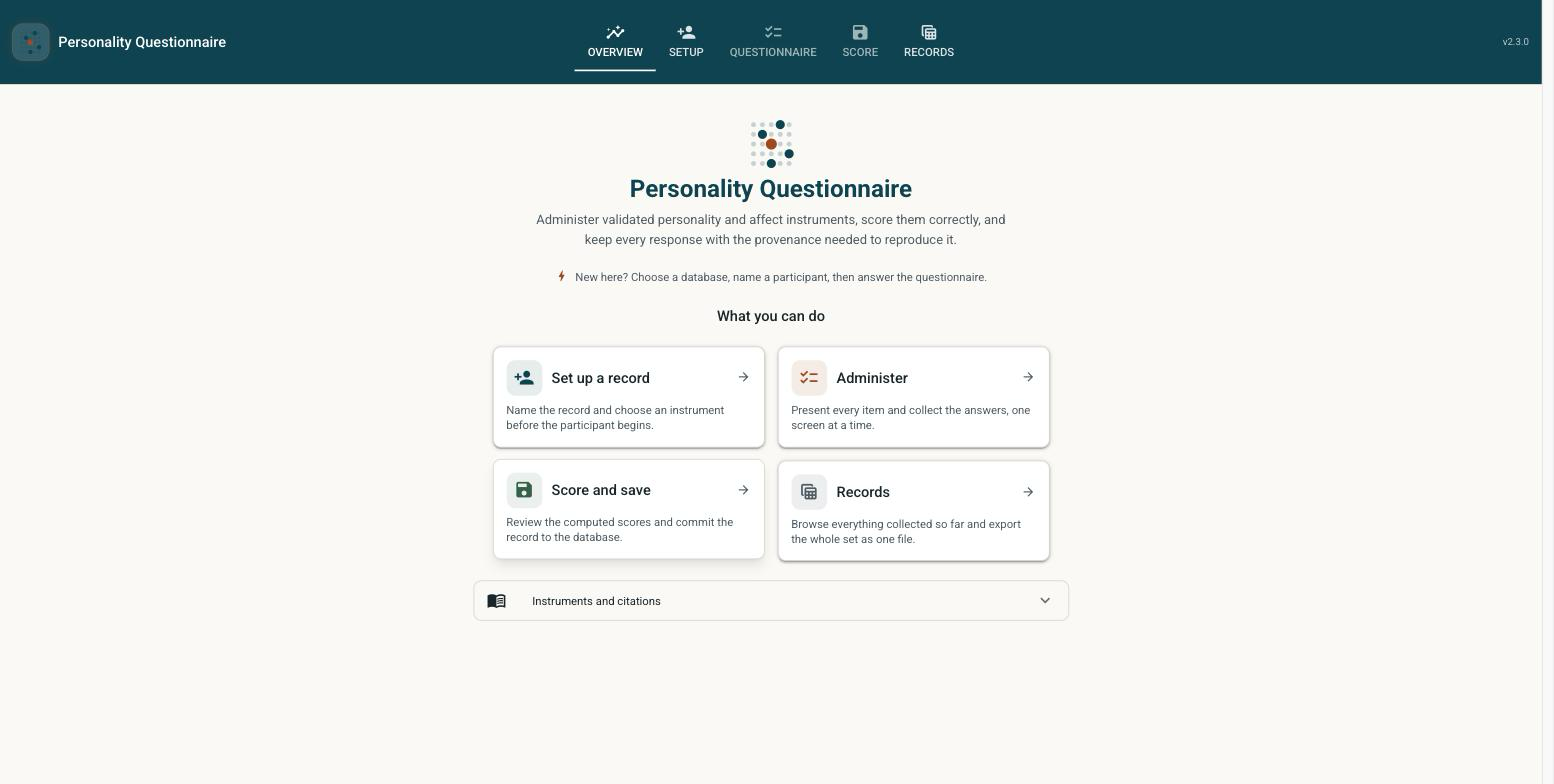
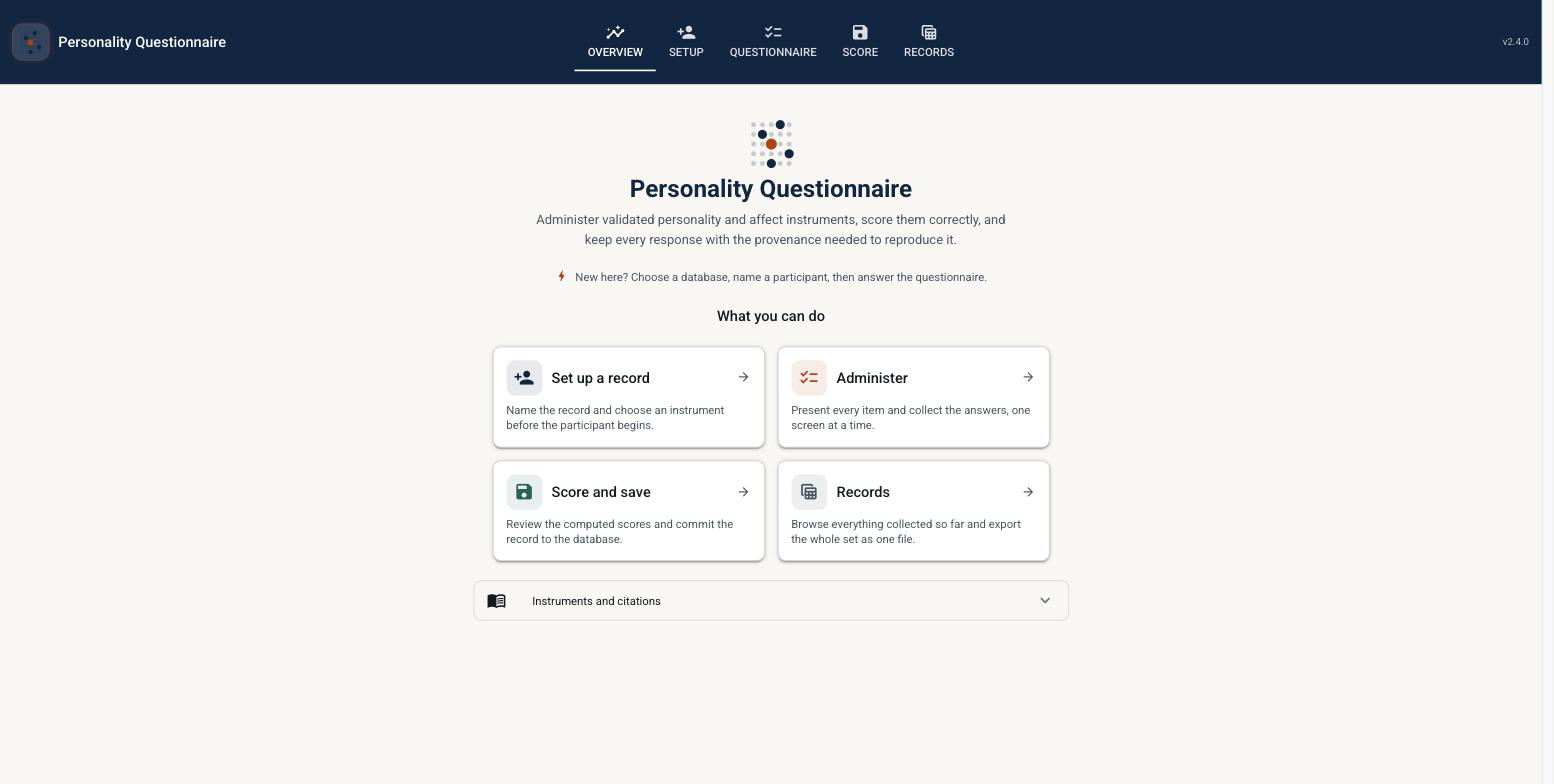
docs: add a second README/docs screenshot of the questionnaire tab
Show BFI-10 mid-administration on the Questionnaire tab, alongside the
existing landing-page shot -- both under the new navy-and-orange
theme. README.md stays the single source; the docs site picks it up
automatically at build time.

diff --git a/personality_questionnaire/core/theme.py b/personality_questionnaire/core/theme.py
@@ -1,10 +1,11 @@
 """Central theme tokens -- every colour this project uses lives here.
 
-The palette is drawn from laboratory glassware and archival paper rather than the
-saturated blues and violets that most research software reaches for: a participant
-answering sixty introspective questions should not feel marketed to. Deep petrol
-carries the chrome, a single muted ochre marks the item currently being answered,
-and everything else stays quiet.
+Dark navy carries the chrome; a single burnt-orange accent marks the item
+currently being answered. The pairing is deliberately far from the muted
+teal-and-sage research-software look this project used before 2.5 -- close enough
+to a sibling project's own petrol-and-ochre palette that the two applications were
+hard to tell apart at a glance. Navy against warm paper, with orange as the one
+saturated colour in the room, reads as its own thing.
 
 Every foreground/background pairing defined here meets WCAG AA (4.5:1) for normal
 text against :data:`PAPER` or white. ``tests/core/test_theme.py`` asserts it, so a
@@ -30,48 +31,56 @@ __all__ = [
     "PRIMARY",
     "ROW_BORDER",
     "SUCCESS",
+    "UNANSWERED",
     "WARNING",
     "color",
     "contrast_ratio",
     "domain_color",
 ]
 
-PRIMARY = "#0F4C5C"
-"""Deep petrol. Application header, primary actions, links."""
+PRIMARY = "#12294B"
+"""Dark navy. Application header, primary actions, links."""
 
-ACCENT = "#A9521F"
-"""Burnt ochre. The item being answered, progress fill -- used sparingly."""
+ACCENT = "#B84C14"
+"""Burnt orange. The item being answered, progress fill -- the one saturated
+colour in the palette, so it stays legible as a signal precisely because
+everything else is quiet."""
 
-SUCCESS = "#3F6B54"
-"""Muted sage. An item answered, a record saved."""
+SUCCESS = "#2E6E5E"
+"""Deep teal-green. An item answered, a record saved."""
 
-WARNING = "#8A6508"
+WARNING = "#8A5A00"
 """Dark amber. An incomplete record, unanswered items remaining."""
 
-DANGER = "#A63446"
-"""Deep rust. Validation failure, destructive actions."""
+DANGER = "#A6303B"
+"""Deep rust red. Validation failure, destructive actions."""
 
-NEUTRAL = "#5A6670"
-"""Slate. Secondary text, totals, disabled states."""
+NEUTRAL = "#565F6E"
+"""Cool slate. Secondary text, totals, disabled states."""
 
-PAPER = "#FBFAF7"
+PAPER = "#FAF8F5"
 """Warm off-white. The page ground."""
 
-INK = "#1B2A30"
-"""Near-black with a petrol cast. Body text."""
+INK = "#151B26"
+"""Near-black with a navy cast. Body text."""
 
-ROW_BORDER = "1px solid #DCD9D2"
+UNANSWERED = "#DDD8D0"
+"""Same hairline colour as :data:`ROW_BORDER`, isolated for cases that need only
+the colour rather than the full declaration -- an unanswered questionnaire item's
+border, for instance."""
+
+ROW_BORDER = f"1px solid {UNANSWERED}"
 """The hairline every list row and card carries."""
 
 HEADER_FG = "#FFFFFF"
 """Header text and icons, readable on :data:`PRIMARY`."""
 
 DOMAIN_COLORS: dict[str, str] = {
-    "openness": "#0F4C5C",
-    "conscientiousness": "#3F6B54",
-    "extraversion": "#A9521F",
-    "agreeableness": "#7A5C8A",
-    "neuroticism": "#A63446",
+    "openness": "#3E4C8A",
+    "conscientiousness": "#2E6E5E",
+    "extraversion": "#B84C14",
+    "agreeableness": "#7A4A82",
+    "neuroticism": "#A6303B",
 }
 """One colour per Big Five domain.
 

diff --git a/scripts/render_logo.py b/scripts/render_logo.py
@@ -29,8 +29,8 @@ stroke competes with the dots."""
 
 ROWS = [9.6, 20.8, 32.0, 43.2, 54.4]
 COLS = [7.0, 18.85, 30.7, 42.55, 54.4]
-PETROL = (0x0F, 0x4C, 0x5C)
-OCHRE = (0xA9, 0x52, 0x1F)
+NAVY = (0x12, 0x29, 0x4B)
+ORANGE = (0xB8, 0x4C, 0x14)
 ANSWERED = {0: 3, 1: 1, 3: 4, 4: 2}
 CURRENT = (2, 2)
 
@@ -57,10 +57,10 @@ def circles():
     """Yield (cx, cy, r, rgb, alpha) in user units."""
     for r_i, cy in enumerate(ROWS):
         for c_i, cx in enumerate(COLS):
-            yield cx, cy, 3.0, PETROL, 0.22
+            yield cx, cy, 3.0, NAVY, 0.22
     for r_i, c_i in sorted(ANSWERED.items()):
-        yield COLS[c_i], ROWS[r_i], 5.6, PETROL, 1.0
-    yield COLS[CURRENT[1]], ROWS[CURRENT[0]], 6.8, OCHRE, 1.0
+        yield COLS[c_i], ROWS[r_i], 5.6, NAVY, 1.0
+    yield COLS[CURRENT[1]], ROWS[CURRENT[0]], 6.8, ORANGE, 1.0
 
 
 def render() -> bytes:
@@ -73,7 +73,7 @@ def render() -> bytes:
         uy = (y + 0.5) * unit
         for x in range(n):
             if in_plate((x + 0.5) * unit, uy):
-                row[x] = (PLATE_ALPHA, PETROL)
+                row[x] = (PLATE_ALPHA, NAVY)
     shapes = [
         (cx * SCALE * SS, cy * SCALE * SS, r * SCALE * SS, rgb, a)
         for cx, cy, r, rgb, a in circles()

diff --git a/docs/conf.py b/docs/conf.py
@@ -65,12 +65,12 @@ html_static_path = ["assets"]
 html_baseurl = "https://fodorad.github.io/personality_questionnaire/"
 html_theme_options = {
     "light_css_variables": {
-        "color-brand-primary": "#0F4C5C",
-        "color-brand-content": "#0F4C5C",
+        "color-brand-primary": "#12294B",
+        "color-brand-content": "#12294B",
     },
     "dark_css_variables": {
-        "color-brand-primary": "#7FB3C0",
-        "color-brand-content": "#7FB3C0",
+        "color-brand-primary": "#E8925C",
+        "color-brand-content": "#E8925C",
     },
     "source_repository": "https://github.com/fodorad/personality_questionnaire/",
     "source_branch": "main",

diff --git a/personality_questionnaire/pages/questionnaire.py b/personality_questionnaire/pages/questionnaire.py
@@ -147,7 +147,7 @@ def _item_row(draft: DraftRecord, item, update: Callable[[], None]) -> None:  # 
     def mark_answered() -> None:
         """Tint the card's border once the item has an answer."""
         answered = item.number in draft.responses
-        colour = theme.SUCCESS if answered else "#DCD9D2"
+        colour = theme.SUCCESS if answered else theme.UNANSWERED
         card.style(f"border:1px solid {colour};border-left:4px solid {colour};border-radius:10px")
 
     with card:

diff --git a/tests/core/test_theme.py b/tests/core/test_theme.py
@@ -74,7 +74,7 @@ class TestContrastRatio(unittest.TestCase):
         self.assertAlmostEqual(theme.contrast_ratio("#000000", "#FFFFFF"), 21.0, places=1)
 
     def test_identical_colors_are_one(self):
-        self.assertAlmostEqual(theme.contrast_ratio("#0F4C5C", "#0F4C5C"), 1.0, places=6)
+        self.assertAlmostEqual(theme.contrast_ratio("#12294B", "#12294B"), 1.0, places=6)
 
     def test_is_symmetric(self):
         self.assertAlmostEqual(

diff --git a/README.md b/README.md
@@ -51,6 +51,8 @@ full citations and licence notes.</sub>
 
 <img src="https://raw.githubusercontent.com/fodorad/personality_questionnaire/main/docs/assets/screenshot-overview.png" alt="Landing page of the Personality Questionnaire application" width="720"/>
 
+<img src="https://raw.githubusercontent.com/fodorad/personality_questionnaire/main/docs/assets/screenshot-questionnaire.png" alt="BFI-10 loaded on the Questionnaire tab" width="720"/>
+
 </div>
 
 # Quickstart
